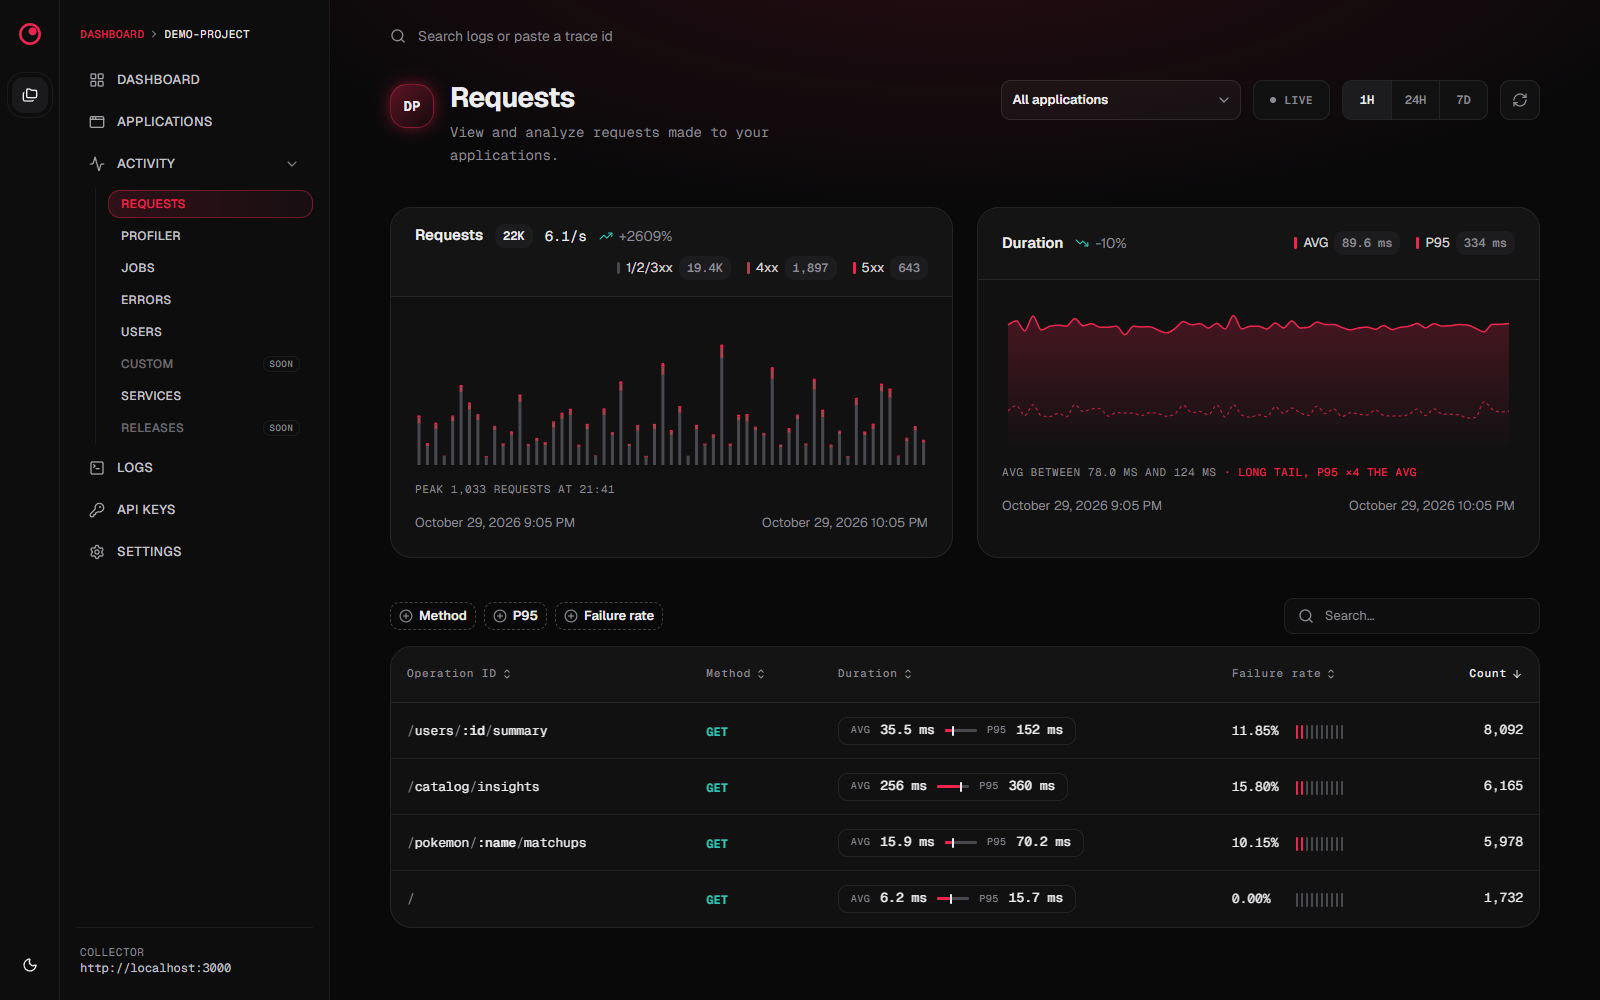
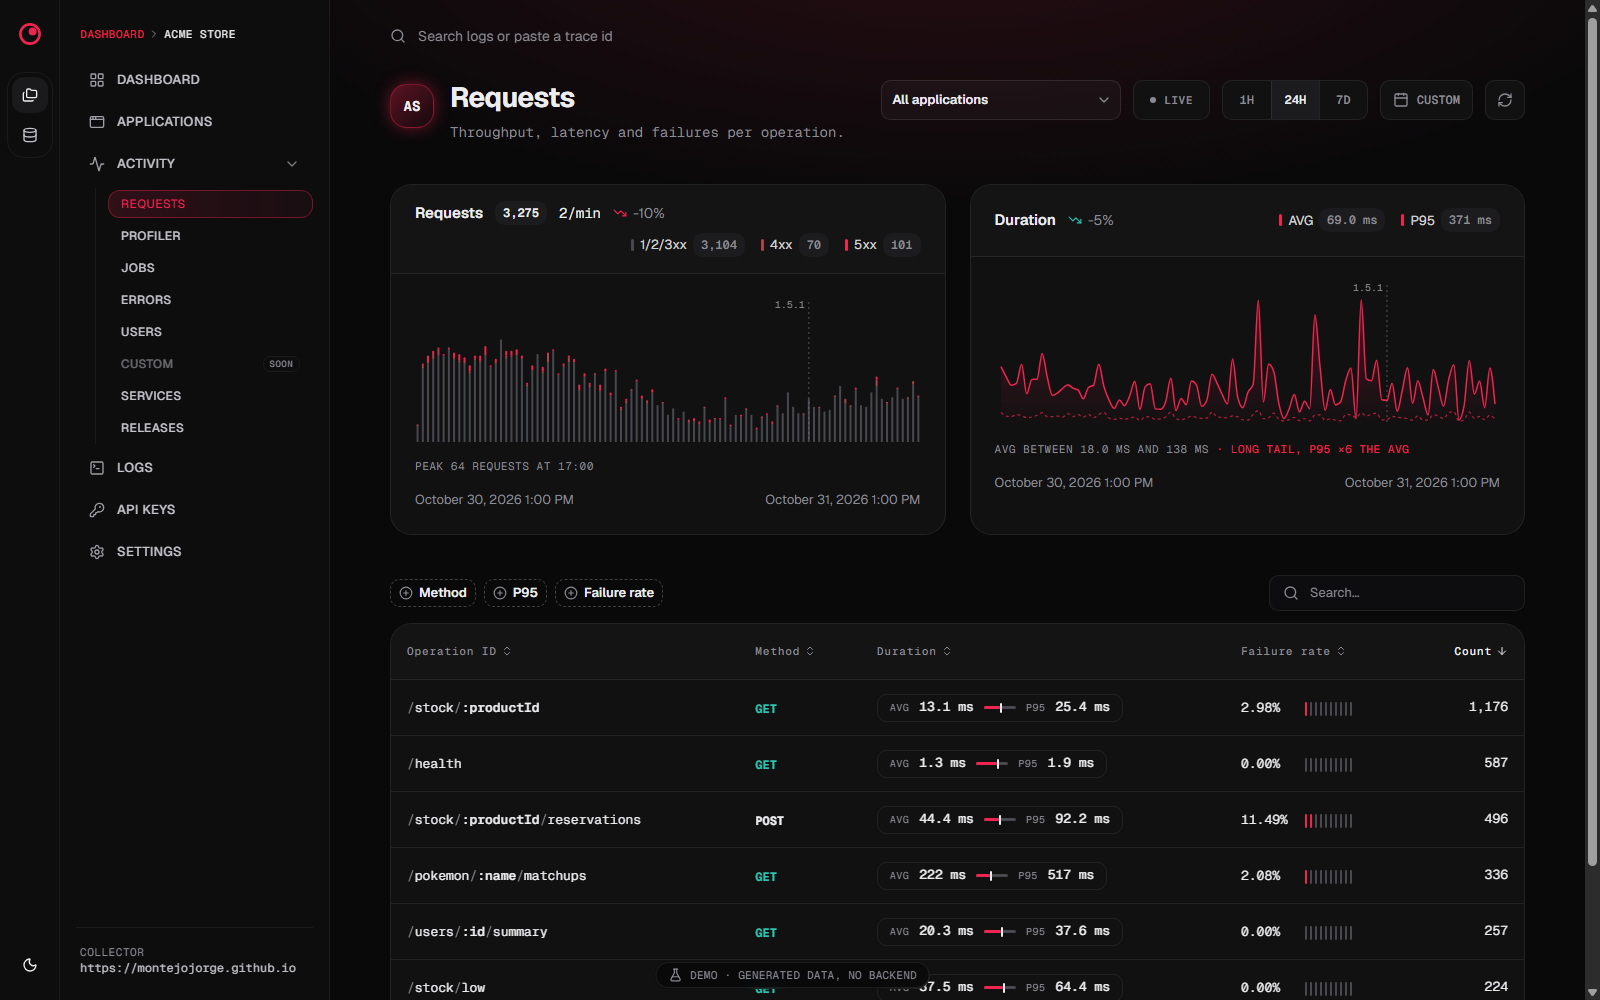
docs: link the live demo and refresh the README screenshot
Adds a demo badge and link to https://montejojorge.github.io/selfhosted-nestjs-observe/
and replaces the Requests screenshot with one from the demo (linked to it).

diff --git a/README.md b/README.md
@@ -12,6 +12,11 @@
 <p align="center">
   <a href="LICENSE"><img src="https://img.shields.io/badge/license-MIT-blue.svg" alt="License: MIT" /></a>
   <a href="https://github.com/nestjs/observe"><img src="https://img.shields.io/badge/%40nestjs%2Fobserve-%E2%89%A4%200.3.20-red.svg" alt="@nestjs/observe 0.3.20 or earlier" /></a>
+  <a href="https://montejojorge.github.io/selfhosted-nestjs-observe/"><img src="https://img.shields.io/badge/demo-live-brightgreen.svg" alt="Live demo" /></a>
+</p>
+
+<p align="center">
+  <a href="https://montejojorge.github.io/selfhosted-nestjs-observe/"><strong>Try the live demo</strong></a>: the dashboard running in your browser on generated data, no backend.
 </p>
 
 > [!NOTE]
@@ -25,7 +30,7 @@
 > telemetry to NestJS Observe: pointing them at this collector would breach that license. See
 > [issue #1](https://github.com/MontejoJorge/selfhosted-nestjs-observe/issues/1).
 
-![Requests page: request rate and status split, latency over time, and the slowest operations](docs/assets/screenshots/requests.png)
+[![Requests page of the live demo: request rate and status split, latency with a release marker, and the operations table](docs/assets/screenshots/requests.png)](https://montejojorge.github.io/selfhosted-nestjs-observe/)
 
 ## Features
 
